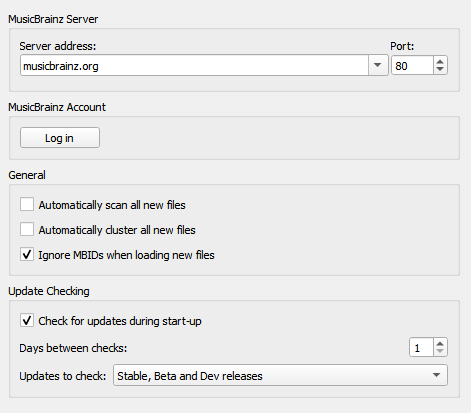
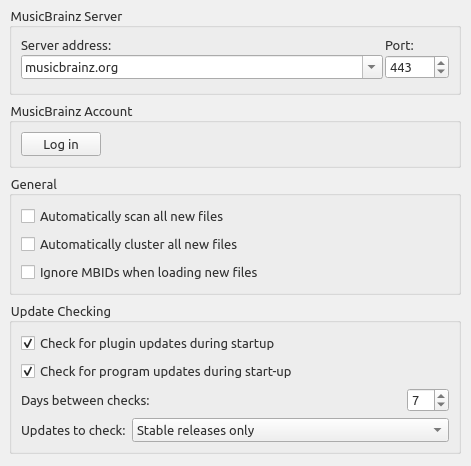
Add documentation for plugin update check option

diff --git a/config/options_general.rst b/config/options_general.rst
@@ -59,21 +59,25 @@
    the correct track.  This is useful when re-processing files that have been previously tagged
    with incorrect information.
 
-**Check for updates during start-up**
+**Check for plugin updates during start-up**
 
-   This option determines whether or not Picard will automatically check for :index:`program updates <pair: configuration; update checking>` during
+   This option determines whether or not Picard will automatically check for :index:`plugin updates <pair: configuration; plugin update checking>` during startup.  If this is enabled and an update to an installed plugin is available, a popup message will be displayed.
+
+**Check for program updates during start-up**
+
+   This option determines whether or not Picard will automatically check for :index:`program updates <pair: configuration; program update checking>` during
    startup.  In any case, you can have Picard check for program updates at any time using :menuselection:`"Help
    --> Check for update"`.
 
 **Days between checks**
 
-   This option allows you to limit the automatic update checking by selecting the interval, in days,
+   This option allows you to limit the automatic program update checking by selecting the interval, in days,
    between checks. Set this to 1 if you want to check daily, 7 for weekly checks, and so on. Note that
-   this only applies if the "Check for updates during start-up" option is enabled.
+   this only applies if the "Check for program updates during start-up" option is enabled.
 
 **Updates to check**
 
-   This option allows you to select which levels of update to check. Your options are:
+   This option allows you to select which levels of program update to check. Your options are:
 
    * Stable releases only
    * Stable and Beta releases
@@ -84,6 +88,6 @@
 
 .. note::
 
-   The update checking related settings and :menuselection:`"Help --> Check for update..."` command may
+   The program update checking related settings and :menuselection:`"Help --> Check for update..."` command may
    not be available when Picard is distributed as a package. In that case, the user should check with the
    maintainer of the package to determine when an update is available.
